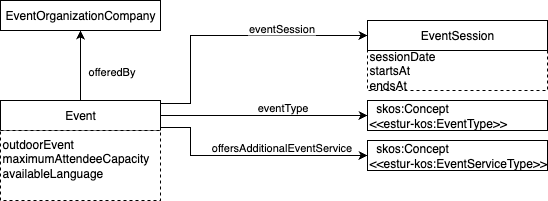
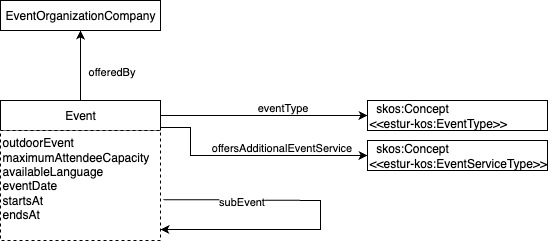
Actualización de documentación relacionada con Eventos y la eliminación de EventSession #33

diff --git a/docs/sections/description-en.html b/docs/sections/description-en.html
@@ -97,7 +97,7 @@ ex:OperadorBus1LocationGeometry a geosparql:Geometry, geo:Point ;
       });
  </script>
 
-<p><a href="#TourismService">Tourism Services</a> are classified, as shown in figure 4, as <a href="#AccommodationEstablishment">Accommodation Establishment</a>, <a href="#FoodEstablishment">Food Establishment</a>, <a href="#DestinationExperience">Destination Experiences</a>, <a href="#EventSession">Event Sessions</a>, <a href="#HolidayPackage">Holiday Packages</a>, <a href="Tour">Tours</a> and <a href="TouristDestinationService">Tourist Destination Services</a>. Several of these classes are further classified into other subclasses. </p>
+<p><a href="#TourismService">Tourism Services</a> are classified, as shown in figure 4, as <a href="#AccommodationEstablishment">Accommodation Establishment</a>, <a href="#FoodEstablishment">Food Establishment</a>, <a href="#DestinationExperience">Destination Experiences</a>, <a href="#HolidayPackage">Holiday Packages</a> and <a href="Tour">Tours</a>. Several of these classes are further classified into other subclasses. </p>
 
 <p><center><img src="images/fig4-TourismService.png"/><figcaption>Figure 4. Classification of Tourism Services.</figcaption></center></p>
 
@@ -211,7 +211,7 @@ ex:CongressCentre1OpeningHoursWeekend a estur:OpeningHours ;
     
 <p>Next we include some additional examples that are relevant in this reference conceptual model.</p> 
 
-<p>We start with the class <a href="#Event">Event</a>, whose main properties and relations with other classes and thesauri are shown in figure 7. Events are organised by <a href="#EventOrganisationCompany">Event organisation companies</a>, which have a set of applicable properties, such as who is performing in the event, whether it is an open air event or not, the maximum capacity, and the range of dates when it is available. Furthermore, events can have associated <a href="#EventSession">Sessions</a>. They can be of different types and offer additional services. This is in addition to properties that we have already indicated for tourism services. Next we show an example of a musical event (a concert) that happens in two consecutive days, and which offers as an additional service the availability of lockers. This event is contained in another event (in a cultural week) and is hosted in the congress centre that was already presented above.</p>
+<p>We start with the class <a href="#Event">Event</a>, whose main properties and relations with other classes and thesauri are shown in figure 7. Events are organised by <a href="#EventOrganisationCompany">Event organisation companies</a>, which have a set of applicable properties, such as who is performing in the event, whether it is an open air event or not, the maximum capacity, and the range of dates when it is available. Furthermore, events can have associated <a href="#subEvent">sub events</a>. They can be of different types and offer additional services. This is in addition to properties that we have already indicated for tourism services. Next we show an example of a musical event (a concert) that happens in two consecutive days, and which offers as an additional service the availability of lockers. This event is contained in another event (in a cultural week) and is hosted in the congress centre that was already presented above.</p>
 
 <p><center><img src="images/fig7-Event.png"/><figcaption>Figure 7. Conceptual model for Events.</figcaption></center></p>
 
@@ -220,29 +220,29 @@ ex:CongressCentre1OpeningHoursWeekend a estur:OpeningHours ;
 @prefix estur-eventservice: &lt;https://ontologia.segittur.es/turismo/kos/eventservice/&gt; .
 
 ex:Event1 a estur:Event ;
-  rdfs:label "Evento 1" ;
+  rdfs:label "Event 1" ;
   estur:outdoorEvent "false"^^xsd:boolean ;
   estur:maximumAttendeeCapacity "1500"^^xsd:int ;
   estur:availabilityStarts "2024-12-07"^^xsd:date ;
   estur:availabilityEnds "2025-01-31"^^xsd:date ;
-  estur:eventSession ex:Event1Session1, ex:Event1Session2 ;
+  estur:subEvent ex:Event1Session1, ex:Event1Session2 ;
   estur:eventType estur-event:Music ;
   estur:offersAdditionalEventService estur-eventservice:Lockers ;
   estur:containedIn ex:Event2 ;
   estur:offeredBy ex:CongressCentre1 .
   
 ex:Event2 a estur:Event ;
-  rdfs:label "Evento 2 - semana cultural" .
+  rdfs:label "Event 2 - cultural week" .
   
-ex:Event1Session1 a estur:EventSession ;
-  rdfs:label "Sesión 1 del Evento 1" ;
-  estur:sessionDate "2025-03-24"^^xsd:date ;
+ex:Event1Session1 a estur:Event ;
+  rdfs:label "Session 1 of Event 1" ;
+  estur:eventDate "2025-03-24"^^xsd:date ;
   estur:startsAt "20:30" ;
   estur:endsAt "22:30" .
 
 ex:Event1Session1 a estur:EventSession ;
-  rdfs:label "Sesión 2 del Evento 1" ;
-  estur:sessionDate "2025-03-25"^^xsd:date ;
+  rdfs:label "Session 2 of Evento 2" ;
+  estur:eventDate "2025-03-25"^^xsd:date ;
   estur:startsAt "20:30" ;
   estur:endsAt "22:30" .
 </textarea></pre>

diff --git a/docs/sections/description-es.html b/docs/sections/description-es.html
@@ -230,7 +230,7 @@ ex:CongressCentre1OpeningHoursWeekend a estur:OpeningHours ;
     
 <p>A continuación se presentan algunos ejemplos adicionales de conceptos que tienen también relevancia en esta ontología.</p> 
 
-<p>Se comienza con la clase <a href="#Event">Evento</a>, cuyas propiedades y relaciones principales con otros conceptos y tesauros se muestran en la figura 7. Los eventos son organizados por <a href="#EventOrganisationCompany">Compañías de organización de eventos</a>, tienen una serie de propiedades aplicables, como quién o quiénes son los que actúan en el evento, si se trata de un evento al aire libre o no, el aforo máximo, y el rango de fechas en las que está disponible. Asimismo, los eventos pueden tener <a href="#EventSession">Sesiones</a>, ser de distintos tipos y ofrecer servicios adicionales. Todo esto se une a las propiedades ya indicadas para los servicios turísticos. A continuación se muestra un ejemplo de un evento musical (un concierto) que se celebra en dos días consecutivos, y que ofrece como servicio adicional el uso de taquillas. Este evento está relacionado (contenido) en otro evento (en una semana cultural) y se celebra en el centro de congresos CongressCentre1, ya utilizado como ejemplo anteriormente.</p>
+<p>Se comienza con la clase <a href="#Event">Evento</a>, cuyas propiedades y relaciones principales con otros conceptos y tesauros se muestran en la figura 7. Los eventos son organizados por <a href="#EventOrganisationCompany">Compañías de organización de eventos</a>, tienen una serie de propiedades aplicables, como quién o quiénes son los que actúan en el evento, si se trata de un evento al aire libre o no, el aforo máximo, y el rango de fechas en las que está disponible. Asimismo, los eventos pueden tener <a href="#subEvent">eventos relacionados (también conocidos como sub-eventos)</a>. Todo esto se une a las propiedades ya indicadas para los servicios turísticos. A continuación se muestra un ejemplo de un evento musical (un concierto) que se celebra en dos días consecutivos, y que ofrece como servicio adicional el uso de taquillas. Este evento está relacionado (contenido) en otro evento (en una semana cultural) y se celebra en el centro de congresos CongressCentre1, ya utilizado como ejemplo anteriormente.</p>
 
 <p><center><img src="images/fig7-Event.png"/><figcaption>Figura 7. Modelo conceptual de los Eventos.</figcaption></center></p>
 
@@ -245,7 +245,7 @@ ex:Event1 a estur:Event ;
   estur:maximumAttendeeCapacity "1500"^^xsd:int ;
   estur:availabilityStarts "2024-12-07"^^xsd:date ;
   estur:availabilityEnds "2025-01-31"^^xsd:date ;
-  estur:eventSession ex:Event1Session1, ex:Event1Session2 ;
+  estur:subEvent ex:Event1Session1, ex:Event1Session2 ;
   estur:eventType estur-event:Music ;
   estur:offersAdditionalEventService estur-eventservice:Lockers ;
   estur:containedIn ex:Event2 ;
@@ -254,15 +254,15 @@ ex:Event1 a estur:Event ;
 ex:Event2 a estur:Event ;
   rdfs:label "Evento 2 - semana cultural" .
   
-ex:Event1Session1 a estur:EventSession ;
+ex:Event1Session1 a estur:Event ;
   rdfs:label "Sesión 1 del Evento 1" ;
-  estur:sessionDate "2025-03-24"^^xsd:date ;
+  estur:eventDate "2025-03-24"^^xsd:date ;
   estur:startsAt "20:30" ;
   estur:endsAt "22:30" .
 
-ex:Event1Session1 a estur:EventSession ;
+ex:Event1Session1 a estur:Event ;
   rdfs:label "Sesión 2 del Evento 1" ;
-  estur:sessionDate "2025-03-25"^^xsd:date ;
+  estur:eventDate "2025-03-25"^^xsd:date ;
   estur:startsAt "20:30" ;
   estur:endsAt "22:30" .
 </textarea></pre>
@@ -273,7 +273,7 @@ ex:Event1Session1 a estur:EventSession ;
       });
  </script>
     
-<p>Finalmente, añadimos un ejemplo relacionado con una <a href="#Person">Persona</a>, mujer de 47 años procedente de una ciudad en Alemania, que viaja como <a href="#Tourist">Turista</a> en avión y en coche de alquiler, como parte de un paquete turístico, representando varias de sus características de acuerdo con el modelo conceptual presentado en la figura 8.</p>
+<!--<p>Finalmente, añadimos un ejemplo relacionado con una <a href="#Person">Persona</a>, mujer de 47 años procedente de una ciudad en Alemania, que viaja como <a href="#Tourist">Turista</a> en avión y en coche de alquiler, como parte de un paquete turístico, representando varias de sus características de acuerdo con el modelo conceptual presentado en la figura 8.</p>
 
 <p><center><img src="images/fig8-Persons.png"/><figcaption>Figura 8. Modelo conceptual de las Personas y sus Roles.</figcaption></center></p>
 
@@ -303,6 +303,6 @@ ex:TouristRole1 a estur:Tourist ;
         matchBrackets: true
       });
  </script>
-    
+-->    
 </span>
 
